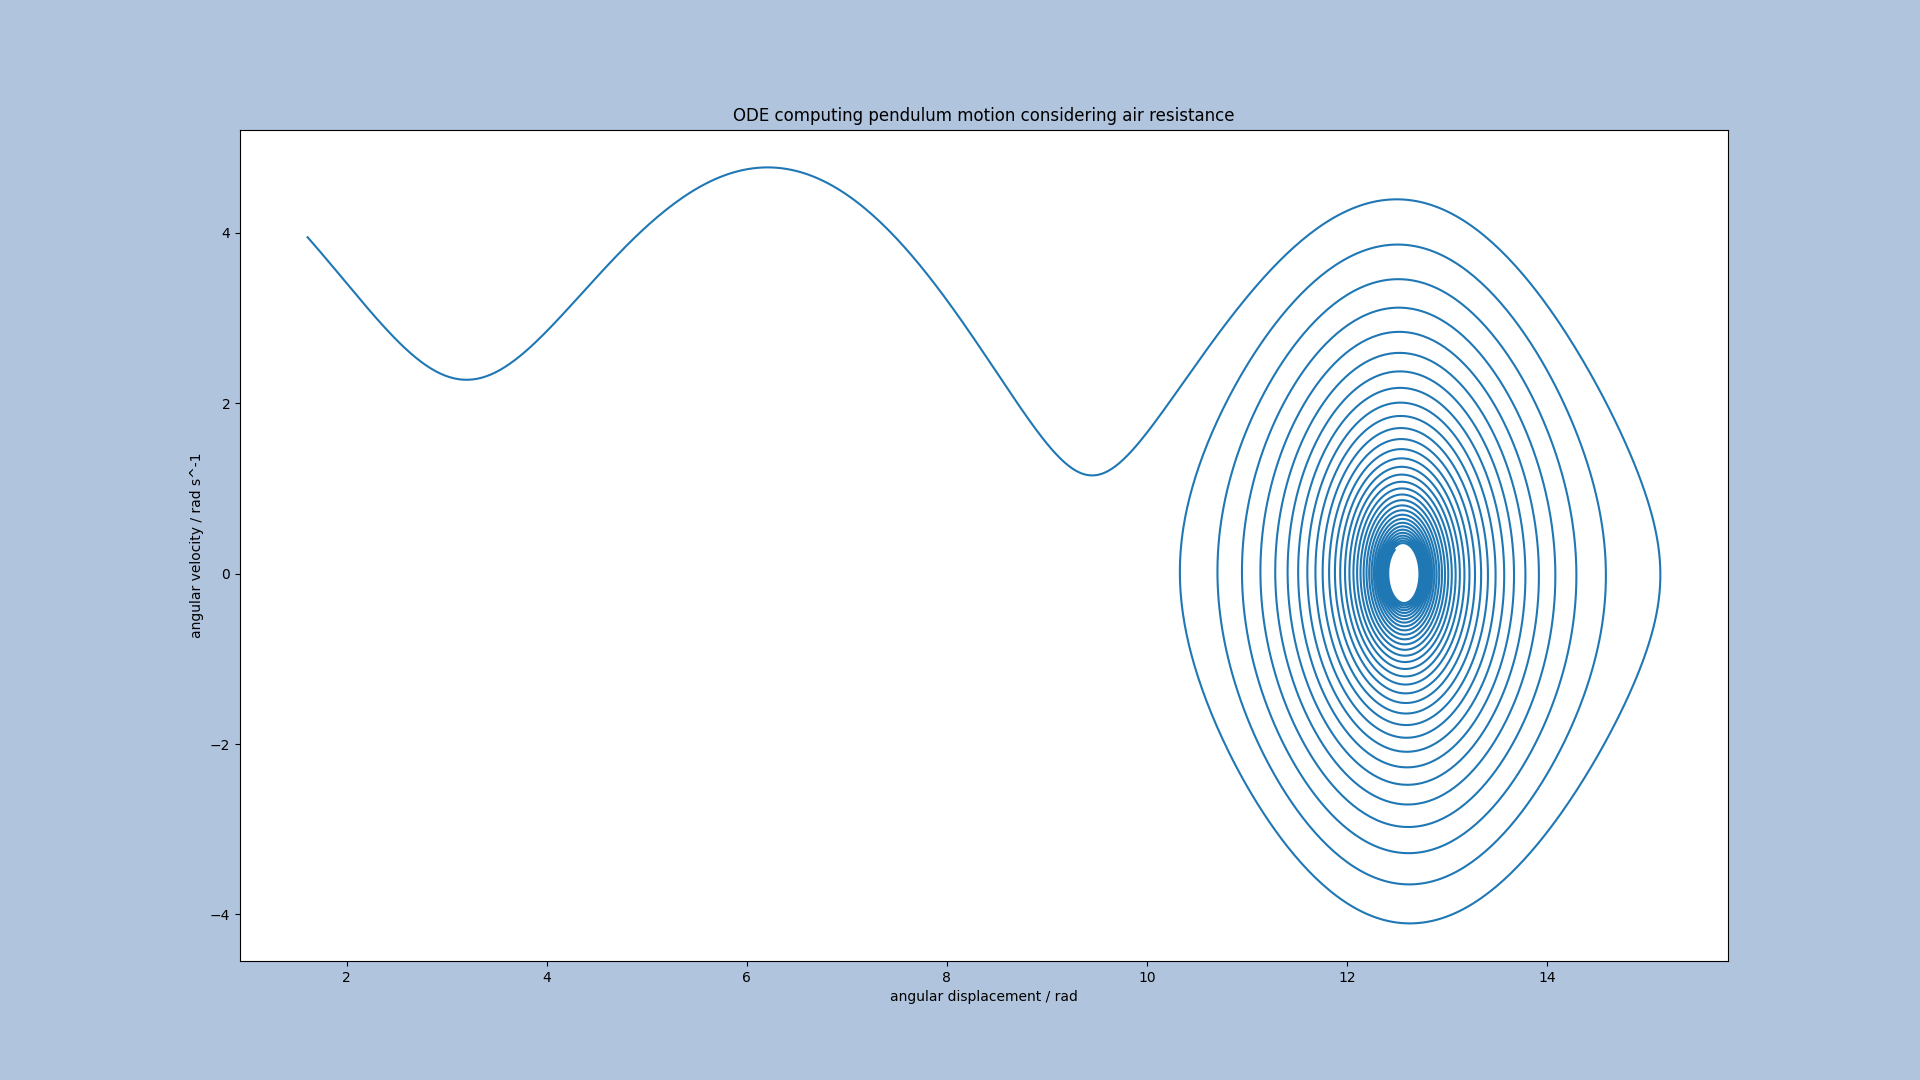
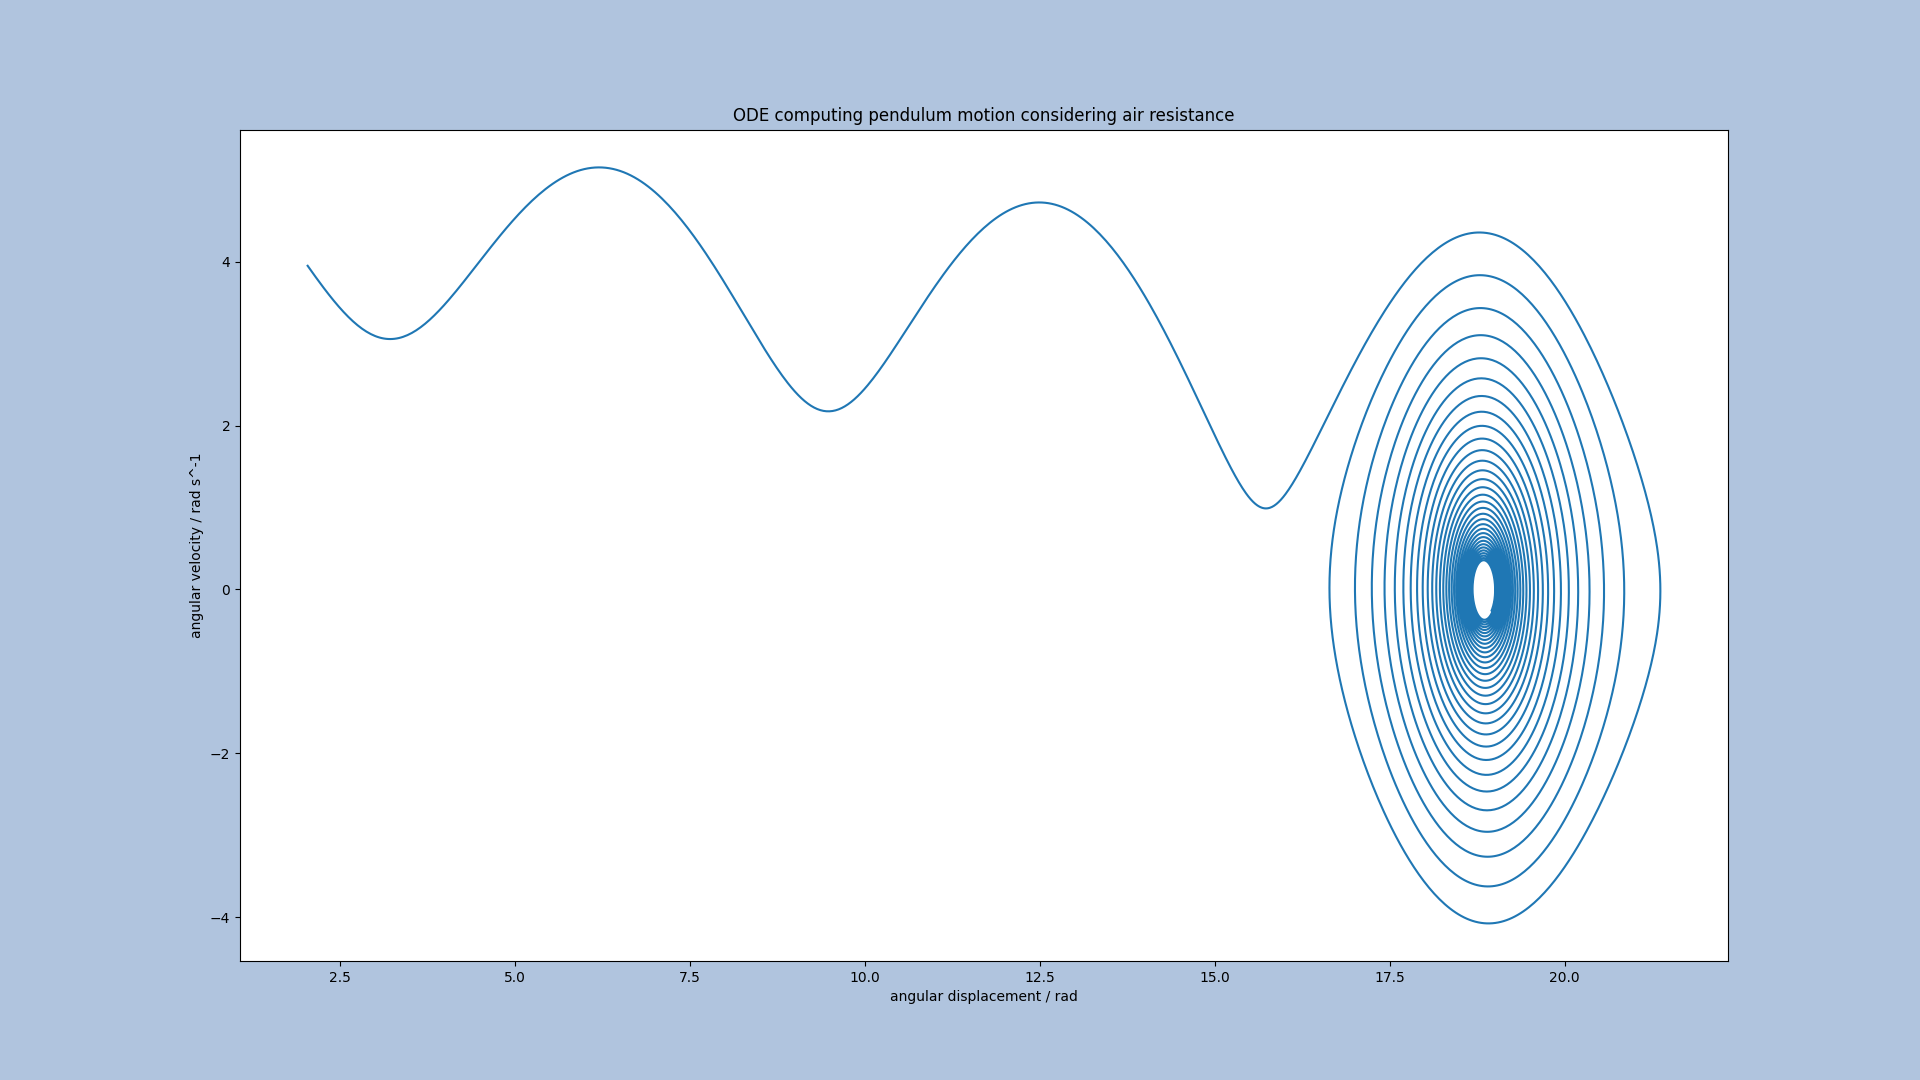
argh

diff --git a/pendulum/pendulum.py b/pendulum/pendulum.py
@@ -7,8 +7,6 @@ import sys
 g = 9.8
 L = 2
 mu = 0.1
-theta_0 = np.pi /2
-theta_dot_0 = 4
 x = []
 y = []
 
@@ -30,15 +28,14 @@ def theta(t):
         z+=1
     return theta
 
-try:
-   a = int(input("Please enter the amount of turns: "))
-except ValueError:
-   print("\nPlease only use integers")
-theta(a)
+theta_0 = int(input("Please enter the inital angular displacement (rad): "))
+theta_dot_0 = int(input("Please enter the intial angular velocity (rad s^-1): "))
+
+theta(100)
 fig, ax = plt.subplots(figsize=(19.2,10.8))
 ax.plot(x, y)
 ax.set_xlabel('angular displacement / rad')
 ax.set_ylabel('angular velocity / rad s^-1')
 ax.set_title('ODE computing pendulum motion considering air resistance')
 fig.set_facecolor('lightsteelblue')
-plt.savefig('ODE.png')
+plt.savefig('pendulum.png')

diff --git a/quicksort/quicksort.py b/quicksort/quicksort.py
@@ -69,7 +69,7 @@ def partition(array):
         return None
 
 
-test = [1, 3, 7, 33, 9, 8, 5, 2]
+test = [6, 3, 4, 8, 11, 21]
 partition(test)
 print(x)
 
